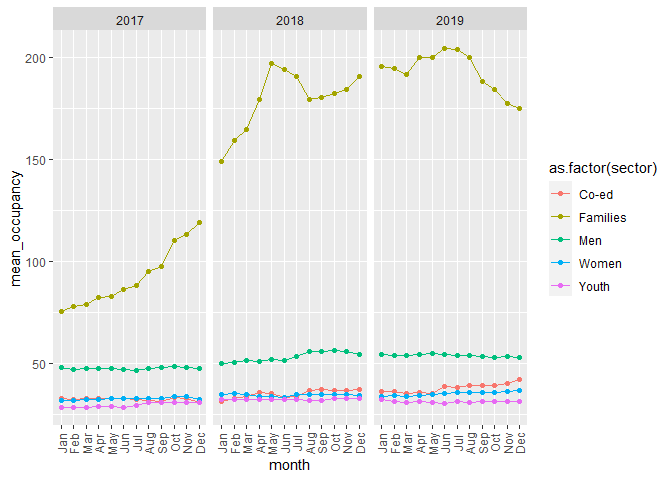
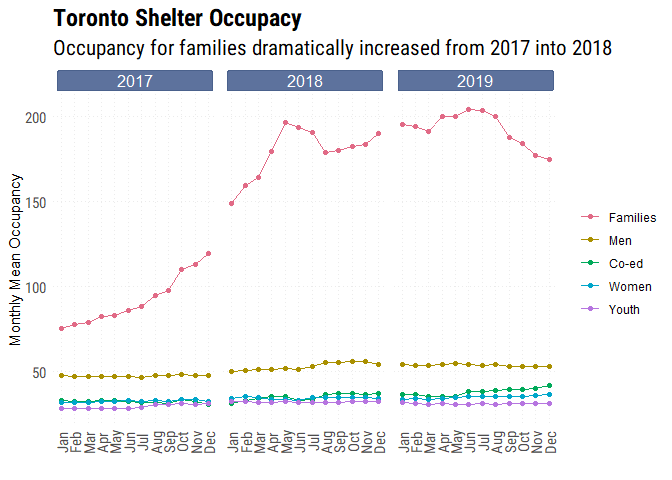
Touch-up figures

diff --git a/2020/2020_12_01/README.md b/2020/2020_12_01/README.md
@@ -102,13 +102,34 @@ raw_df %>%
          year = year(occupancy_date)) %>%
   group_by(month, year, sector) %>%
   summarise(mean_occupancy = mean(occupancy, na.rm = T)) %>%
-  ggplot(aes(x = month, y = mean_occupancy, colour = as.factor(sector), group = sector)) +
+  ggplot(aes(x = month, y = mean_occupancy, colour = fct_reorder(sector, mean_occupancy, .desc = TRUE), group = sector)) +
   geom_line() +
   geom_point() +
   facet_grid(. ~ year) +
-  theme(
-    axis.text.x = element_text(angle = 90, vjust = 0.5)
-  )
+  theme_minimal() + 
+   theme(
+     axis.text.x = element_text(family = "Roboto Condensed", size = 11, colour = "grey30", angle = 90, vjust = 0.5),
+     axis.text.y = element_text(family = "Roboto Condensed", size = 11, colour = "grey30"),
+     plot.title = element_text(family = "Roboto Condensed", size = 18, colour = "#000000", face = "bold"),
+     plot.subtitle = element_text(family = "Roboto Condensed", size = 16, colour = "#000000"),
+     panel.grid.minor = element_blank(),
+     panel.grid.major = element_line(linetype = "dotted"),
+     strip.text.x = element_textbox(
+      size = 12,
+      color = "white", fill = "#5D729D", box.color = "#4A618C",
+      halign = 0.5, linetype = 1, r = unit(1, "pt"), width = unit(1, "npc"),
+      padding = margin(2, 0, 1, 0), margin = margin(3, 3, 3, 3)),
+     legend.title = element_blank(),
+     
+   ) +
+  labs(
+    title = "Toronto Shelter Occupacy",
+    subtitle = "Occupancy for families dramatically increased from 2017 into 2018",
+    legend = "",
+    x = "",
+    y = "Monthly Mean Occupancy"
+  ) +
+  colorspace::scale_color_discrete_qualitative()
 ```
 
     ## `summarise()` regrouping output by 'month', 'year' (override with `.groups` argument)
@@ -150,24 +171,45 @@ raw_df %>%
   geom_col(fill = "#5D729D", colour = NA) +
   facet_grid(sector ~ year) +
   labs(
-    title = "Spare capacity",
-    subtitle = "How many spare beds are there?"
+    title = "Spare Capacity in Toronto Shelters",
+    subtitle = "What is the difference between capacity and occupancy?",
+    x = "**Month**",
+    y = "**Spare capacity**"
   ) +
   theme_minimal() + 
    theme(
      aspect.ratio = 0.3,
      axis.text.x = element_text(family = "Roboto Condensed", size = 11, colour = "grey30", angle = 90, vjust = 0.5),
      axis.text.y = element_text(family = "Roboto Condensed", size = 11, colour = "grey30"),
+     axis.title.y = element_markdown(family = "Roboto Condensed", colour = "grey30", margin = margin(0, 3, 0, 0, "pt"), hjust = 1, vjust = 1),
+     axis.title.x = element_markdown(family = "Roboto Condensed", colour = "grey30", margin = margin(3, 0, 0, 0, "pt"), hjust = 1, vjust = 1),
      plot.title = element_text(family = "Roboto Condensed", size = 18, colour = "#000000", face = "bold"),
      plot.subtitle = element_text(family = "Roboto Condensed", size = 16, colour = "#000000"),
+     panel.grid.major = element_line(size = 0.25),
      panel.grid.minor = element_blank(),
      strip.text.x = element_textbox(
       size = 12,
       color = "white", fill = "#5D729D", box.color = "#4A618C",
       halign = 0.5, linetype = 1, r = unit(1, "pt"), width = unit(1, "npc"),
-      padding = margin(2, 0, 1, 0), margin = margin(3, 3, 3, 3)
-   )
-   )
+      padding = margin(2, 0, 1, 0), margin = margin(3, 3, 3, 3)),
+     strip.text.y = element_blank()
+   ) +
+  scale_y_continuous(
+    expand = c(0, 0.1),
+    breaks = seq(0, 20, 10)
+  ) +
+  geom_richtext(
+    aes(x = 0.5,
+        y = 20,
+        hjust = 0,
+        label = if_else((year == 2017 & month == "Jan"), glue::glue("**{sector}**"), NA_character_)),
+    label.colour = NA,
+    family = "Roboto Condensed", 
+    size = 4, 
+    colour = "grey30"
+  )
 ```
+
+    ## Warning: Removed 175 rows containing missing values (geom_rich_text).
 
 ![](D:/Dropbox/ds_projects/tidytuesday/2020/2020_12_01/README_files/figure-gfm/unnamed-chunk-8-1.png)<!-- -->
